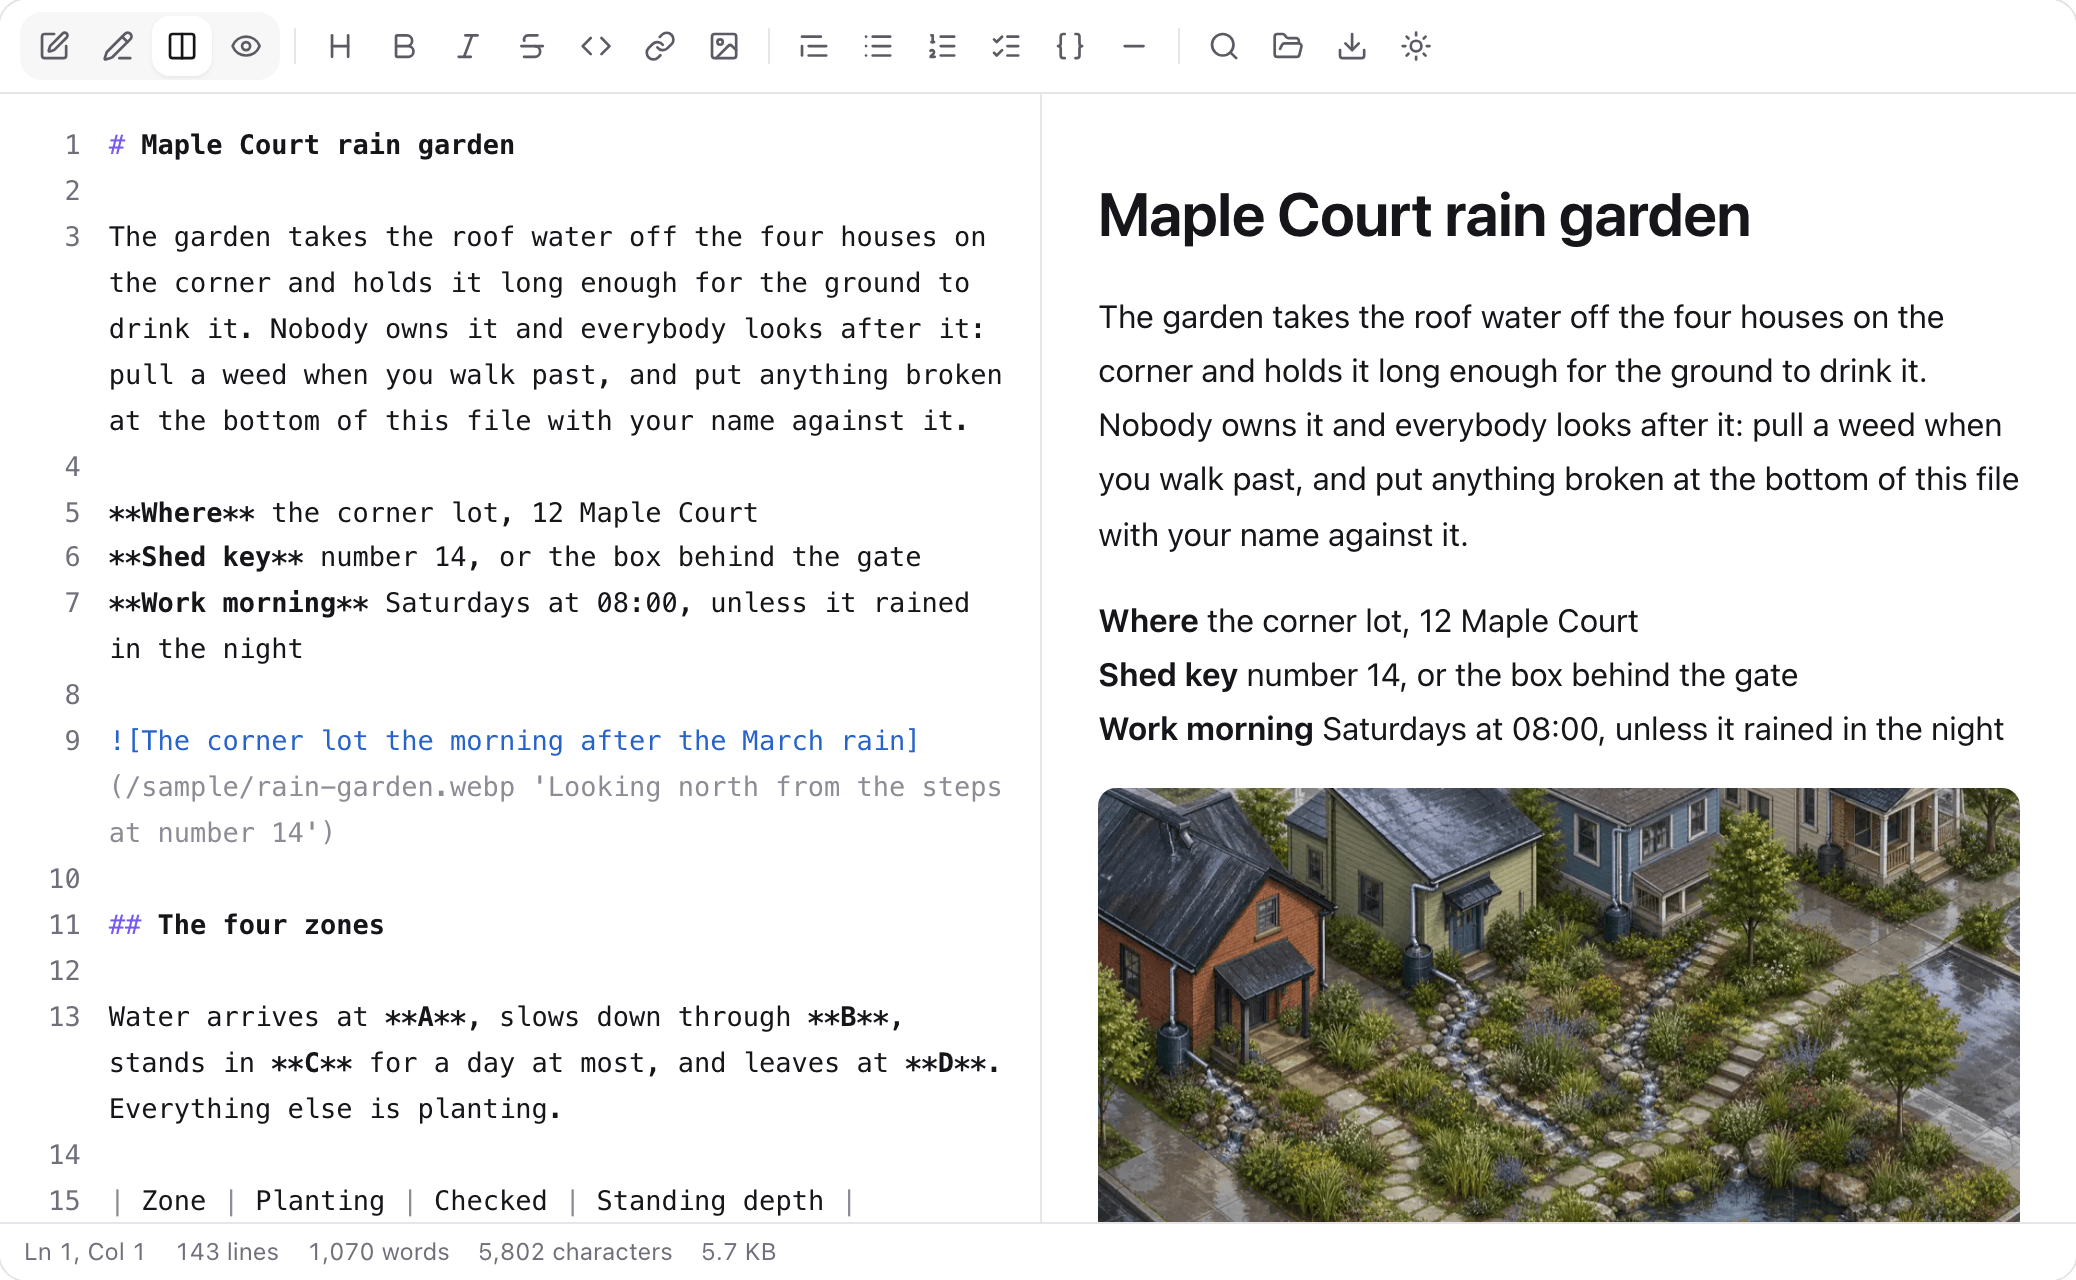
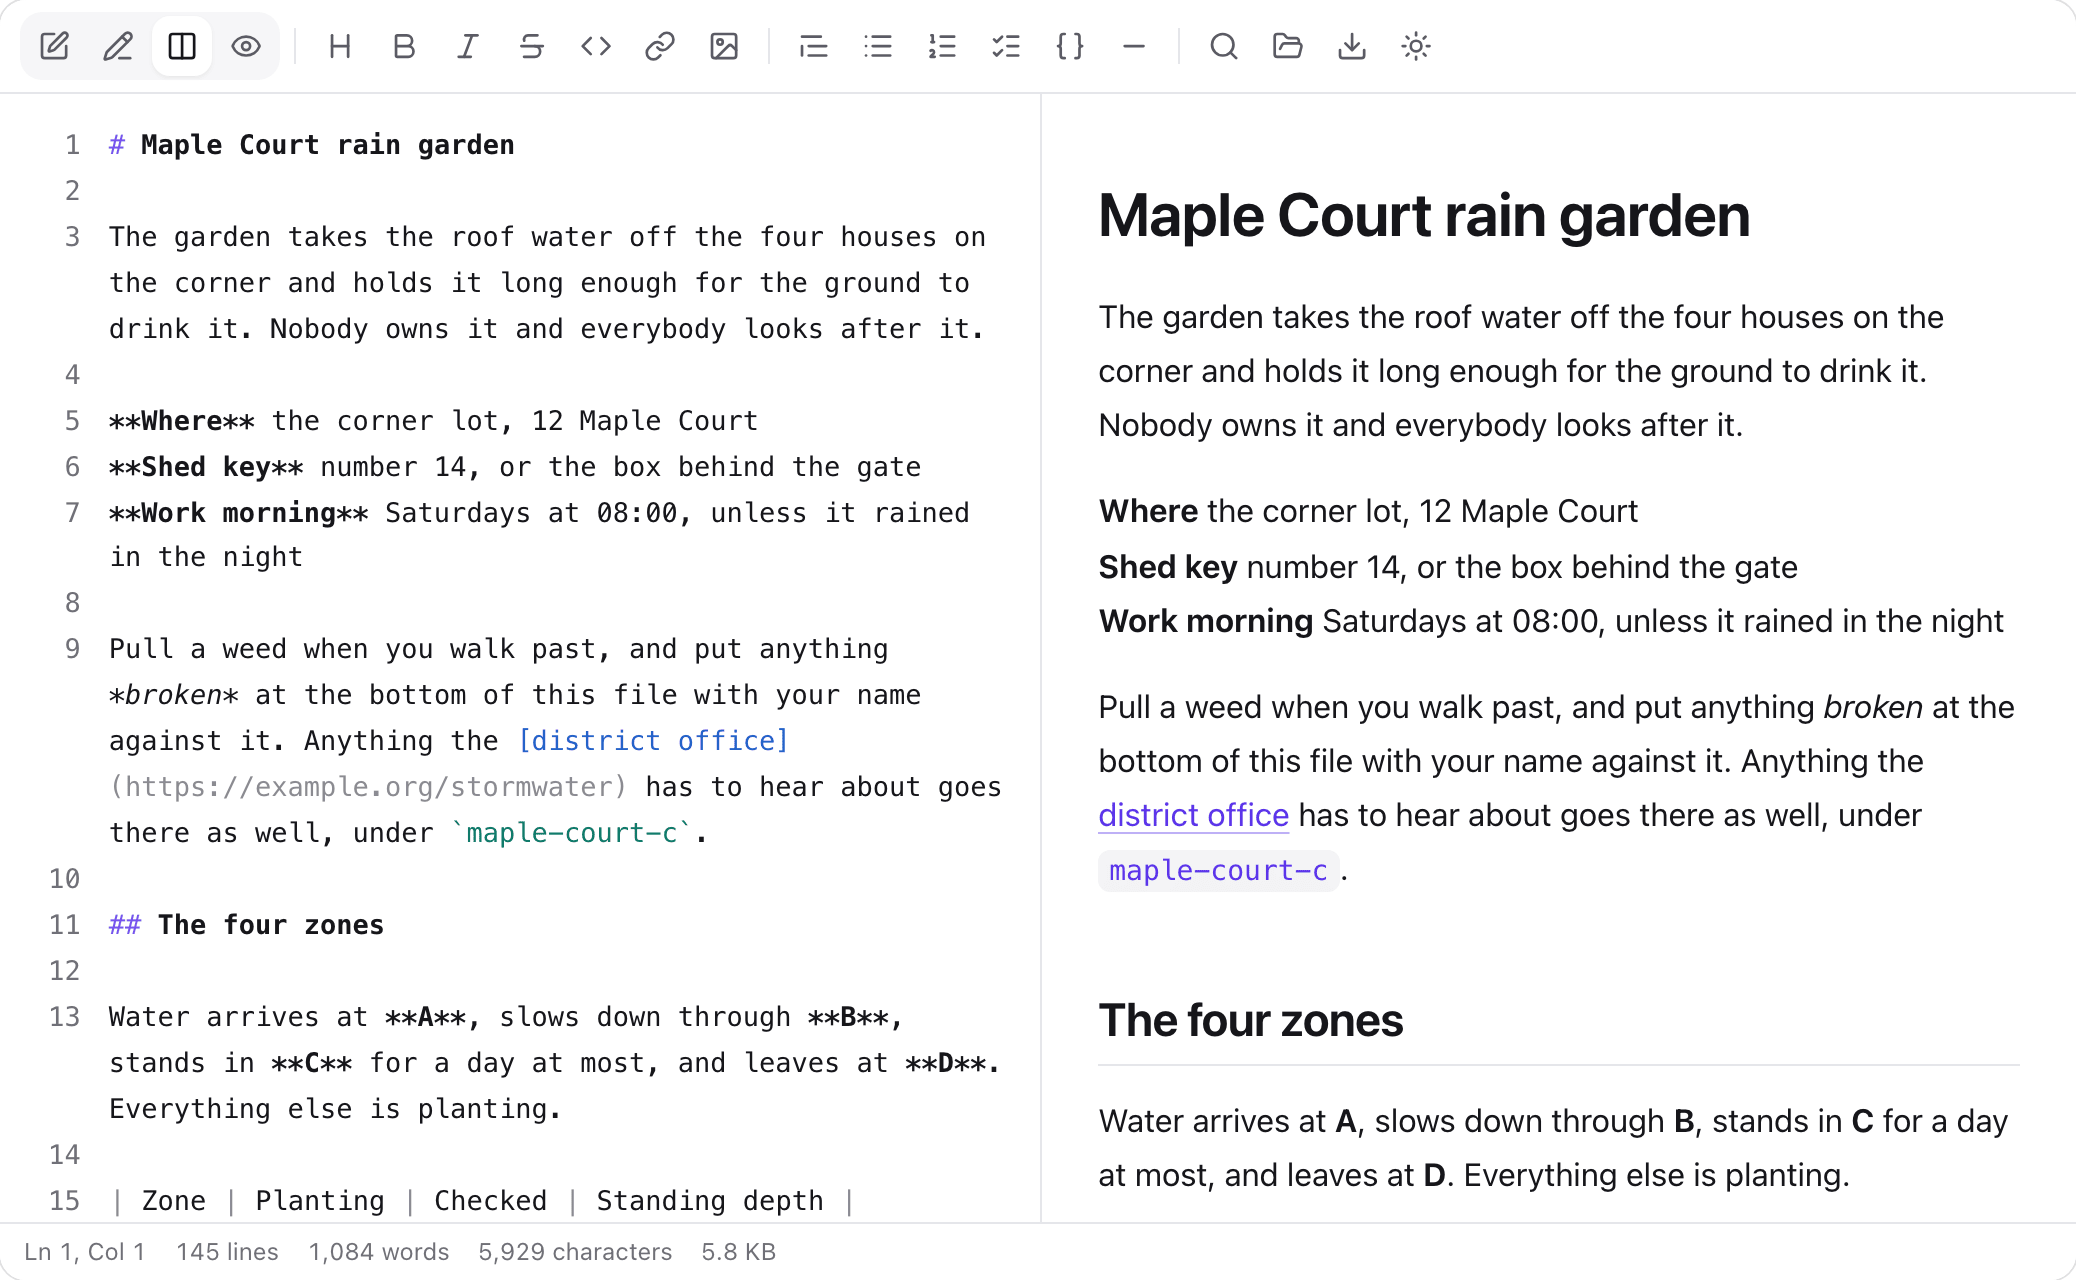
docs: the playground document opens with more of what the parser reads
The first screenful was a heading, one long paragraph and a photograph,
which is a poor answer to the question a reader opens the playground
with. The opening sentence is shortened, what it used to carry becomes a
paragraph of its own with an emphasis, a link and a code span in it, and
the photograph moves below the table it illustrates.

Nothing is dropped and nothing is added that was not already somewhere
in the file; the same constructs are in it, in a different order. Both
copies are edited together — the Flutter gallery carries the same two
strings, and two documents that differ are two chances to disagree.

The README picture follows from it: the first 640 pixels now carry two
heading levels, bold, italic, a code span, a link and the hard breaks,
against the coloured source that produced them. It also weighs 118 kB
instead of 373, since the photograph is no longer in the frame.

diff --git a/docs/.vitepress/demos/playground/document.ts b/docs/.vitepress/demos/playground/document.ts
@@ -31,13 +31,13 @@ import type { MawyLocale } from 'mawy-react';
 export const PLAYGROUND: Readonly<Record<MawyLocale, string>> = {
   en: `# Maple Court rain garden
 
-The garden takes the roof water off the four houses on the corner and holds it long enough for the ground to drink it. Nobody owns it and everybody looks after it: pull a weed when you walk past, and put anything broken at the bottom of this file with your name against it.
+The garden takes the roof water off the four houses on the corner and holds it long enough for the ground to drink it. Nobody owns it and everybody looks after it.
 
 **Where** the corner lot, 12 Maple Court  
 **Shed key** number 14, or the box behind the gate  
 **Work morning** Saturdays at 08:00, unless it rained in the night
 
-![The corner lot the morning after the March rain](/sample/rain-garden.webp 'Looking north from the steps at number 14')
+Pull a weed when you walk past, and put anything *broken* at the bottom of this file with your name against it. Anything the [district office](https://example.org/stormwater) has to hear about goes there as well, under \`maple-court-c\`.
 
 ## The four zones
 
@@ -49,6 +49,8 @@ Water arrives at **A**, slows down through **B**, stands in **C** for a day at m
 | B — swale | sedge, blue flag iris, coneflower | weekly | 25 cm |
 | C — basin | soft rush, joe-pye weed | weekly | 60 cm |
 | D — overflow | turf only, ~~low shrubs~~ nothing woody | after rain | 10 cm |
+
+![The corner lot the morning after the March rain](/sample/rain-garden.webp 'Looking north from the steps at number 14')
 
 > [!IMPORTANT]
 > Zone C has to be empty within a day of the rain stopping. Water standing on the second morning means the basin has silted up, and that is the one job here that does not wait for Saturday.
@@ -174,13 +176,13 @@ The layout came out of a workshop the district ran in the autumn of 2024,[^works
 `,
   ko: `# 은행나무길 빗물 정원
 
-모퉁이 집 네 채의 지붕물을 받아 땅이 마실 시간을 벌어 주는 정원입니다. 주인은 없고 지나가는 사람이 돌봅니다. 잡초는 보이는 대로 뽑고, 고장 난 것은 이 파일 맨 아래에 이름과 함께 적어 둡니다.
+모퉁이 집 네 채의 지붕물을 받아 땅이 마실 시간을 벌어 주는 정원입니다. 주인은 없고 지나가는 사람이 돌봅니다.
 
 **위치** 은행나무길 12, 모퉁이 필지  
 **창고 열쇠** 14호, 또는 대문 뒤 상자  
 **작업일** 토요일 오전 8시. 밤새 비가 왔으면 쉽니다
 
-![3월 비가 그친 다음 날 아침의 모퉁이 필지](/sample/rain-garden.webp '14호 계단에서 북쪽으로')
+잡초는 보이는 대로 뽑고, *고장 난 것*은 이 파일 맨 아래에 이름과 함께 적어 둡니다. 구청에 알려야 하는 일은 [구청 창구](https://example.org/stormwater)에 \`maple-court-c\`로 함께 접수합니다.
 
 ## 네 구역
 
@@ -192,6 +194,8 @@ The layout came out of a workshop the district ran in the autumn of 2024,[^works
 | B — 수로 | 사초, 꽃창포, 에키네시아 | 매주 | 25 cm |
 | C — 저류지 | 골풀, 등골나물 | 매주 | 60 cm |
 | D — 월류부 | 잔디만, ~~낮은 관목~~ 목본은 금지 | 비 온 뒤 | 10 cm |
+
+![3월 비가 그친 다음 날 아침의 모퉁이 필지](/sample/rain-garden.webp '14호 계단에서 북쪽으로')
 
 > [!IMPORTANT]
 > C는 비가 그친 뒤 하루 안에 비어야 합니다. 이튿날 아침까지 물이 남아 있으면 저류지가 막힌 것이고, 여기서 토요일까지 기다리면 안 되는 일은 그것 하나입니다.

diff --git a/packages/flutter/example/lib/samples.dart b/packages/flutter/example/lib/samples.dart
@@ -171,13 +171,13 @@ There is no `wysiwyg` here. That surface edits the document where it is drawn, w
 const String _playground = '''
 # Maple Court rain garden
 
-The garden takes the roof water off the four houses on the corner and holds it long enough for the ground to drink it. Nobody owns it and everybody looks after it: pull a weed when you walk past, and put anything broken at the bottom of this file with your name against it.
+The garden takes the roof water off the four houses on the corner and holds it long enough for the ground to drink it. Nobody owns it and everybody looks after it.
 
 **Where** the corner lot, 12 Maple Court  
 **Shed key** number 14, or the box behind the gate  
 **Work morning** Saturdays at 08:00, unless it rained in the night
 
-![The corner lot the morning after the March rain](/sample/rain-garden.webp 'Looking north from the steps at number 14')
+Pull a weed when you walk past, and put anything *broken* at the bottom of this file with your name against it. Anything the [district office](https://example.org/stormwater) has to hear about goes there as well, under `maple-court-c`.
 
 ## The four zones
 
@@ -189,6 +189,8 @@ Water arrives at **A**, slows down through **B**, stands in **C** for a day at m
 | B — swale | sedge, blue flag iris, coneflower | weekly | 25 cm |
 | C — basin | soft rush, joe-pye weed | weekly | 60 cm |
 | D — overflow | turf only, ~~low shrubs~~ nothing woody | after rain | 10 cm |
+
+![The corner lot the morning after the March rain](/sample/rain-garden.webp 'Looking north from the steps at number 14')
 
 > [!IMPORTANT]
 > Zone C has to be empty within a day of the rain stopping. Water standing on the second morning means the basin has silted up, and that is the one job here that does not wait for Saturday.
@@ -316,13 +318,13 @@ The layout came out of a workshop the district ran in the autumn of 2024,[^works
 const String _playgroundKo = '''
 # 은행나무길 빗물 정원
 
-모퉁이 집 네 채의 지붕물을 받아 땅이 마실 시간을 벌어 주는 정원입니다. 주인은 없고 지나가는 사람이 돌봅니다. 잡초는 보이는 대로 뽑고, 고장 난 것은 이 파일 맨 아래에 이름과 함께 적어 둡니다.
+모퉁이 집 네 채의 지붕물을 받아 땅이 마실 시간을 벌어 주는 정원입니다. 주인은 없고 지나가는 사람이 돌봅니다.
 
 **위치** 은행나무길 12, 모퉁이 필지  
 **창고 열쇠** 14호, 또는 대문 뒤 상자  
 **작업일** 토요일 오전 8시. 밤새 비가 왔으면 쉽니다
 
-![3월 비가 그친 다음 날 아침의 모퉁이 필지](/sample/rain-garden.webp '14호 계단에서 북쪽으로')
+잡초는 보이는 대로 뽑고, *고장 난 것*은 이 파일 맨 아래에 이름과 함께 적어 둡니다. 구청에 알려야 하는 일은 [구청 창구](https://example.org/stormwater)에 `maple-court-c`로 함께 접수합니다.
 
 ## 네 구역
 
@@ -334,6 +336,8 @@ const String _playgroundKo = '''
 | B — 수로 | 사초, 꽃창포, 에키네시아 | 매주 | 25 cm |
 | C — 저류지 | 골풀, 등골나물 | 매주 | 60 cm |
 | D — 월류부 | 잔디만, ~~낮은 관목~~ 목본은 금지 | 비 온 뒤 | 10 cm |
+
+![3월 비가 그친 다음 날 아침의 모퉁이 필지](/sample/rain-garden.webp '14호 계단에서 북쪽으로')
 
 > [!IMPORTANT]
 > C는 비가 그친 뒤 하루 안에 비어야 합니다. 이튿날 아침까지 물이 남아 있으면 저류지가 막힌 것이고, 여기서 토요일까지 기다리면 안 되는 일은 그것 하나입니다.
